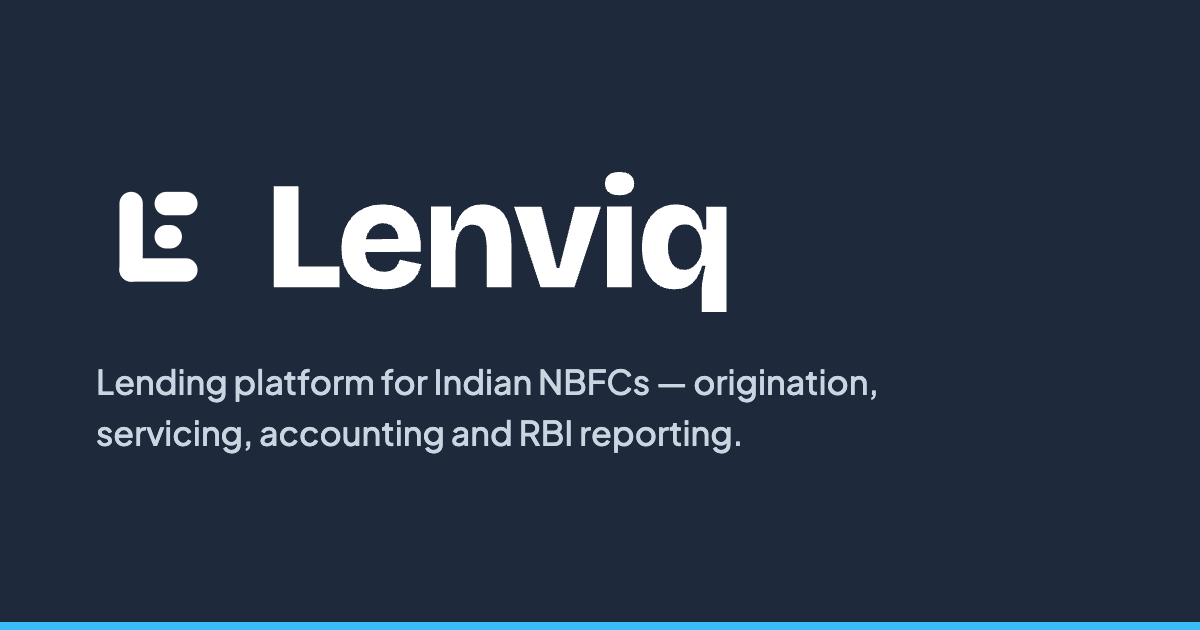
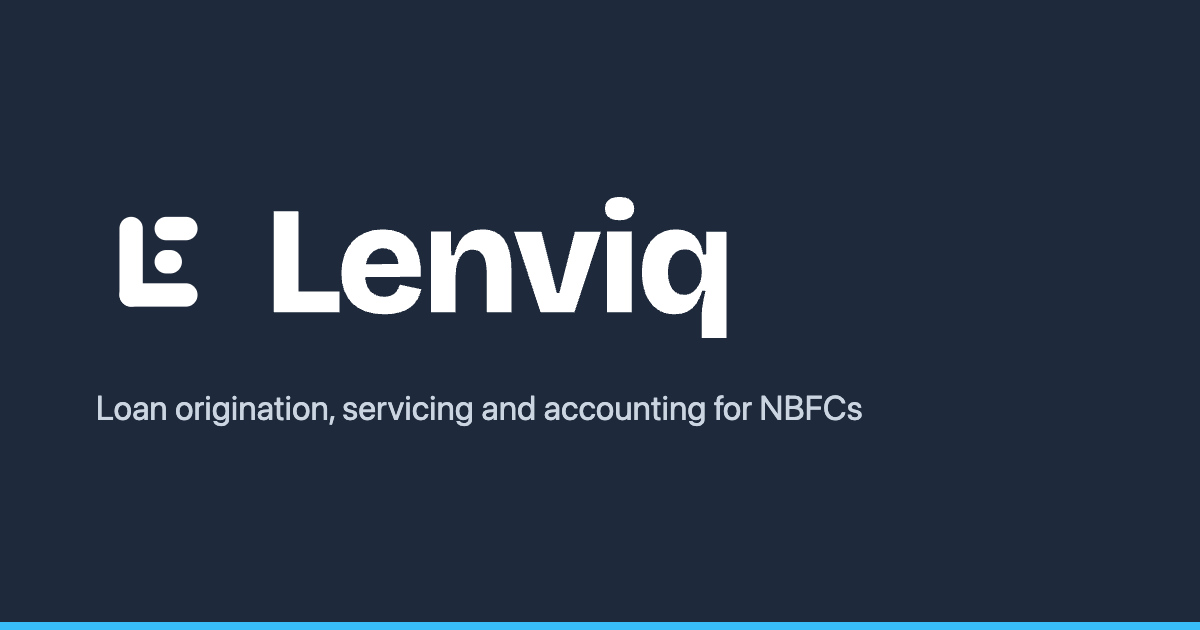
fix(site): one descriptor, shared with the product and generated from one string
EMAIL-1 §1.1. The product introduced itself three different ways: "Lending platform
for Indian lenders" in the transactional email, a longer sentence in this site's meta
description, and a third wording in the proposal PDF. The Open Graph card made a
fourth, hardcoded in the generator.

It is now one line — "Loan origination, servicing and accounting for NBFCs" — with a
short form for narrow layouts. The old one repeated itself (lending / lenders), leaned
on "platform", which is a category word that says nothing, and spent a word telling an
Indian NBFC it was Indian.

The OG card reads SITE.tagline rather than carrying its own copy, so the share image
and the meta description cannot disagree. The site and the product still hold one
string each — two repositories, and SITE-2 explains why — but both ends are now pinned
by a test that names the same words, so a change to either fails loudly.

Recorded as SITE-3: build-brand.mjs imports fontkit and puppeteer and neither is a
declared dependency, so it cannot run from a clean checkout. It does not break the
build (the assets are committed and prebuild only copies them), but regenerating them
is not repeatable by anyone else. The card was regenerated for this sprint through the
product repository's puppeteer.

diff --git a/tests/site.test.ts b/tests/site.test.ts
@@ -401,3 +401,39 @@ describe("a running site can say which version it is", () => {
     expect(ignore).toMatch(/build-info\.json/);
   });
 });
+
+/**
+ * The one-line descriptor, pinned at this end too.
+ *
+ * It lives in two repositories because the site is a standalone static export (SITE-2), so nothing
+ * can enforce that both copies agree — except a test at each end that names the same string. If
+ * somebody changes one, this fails and says which.
+ */
+describe("one descriptor, and the product uses the same words", () => {
+  const EXPECTED = "Loan origination, servicing and accounting for NBFCs";
+  // `SITE` in this file is the repository path, so the config is read the way everything else here
+  // reads source: as text.
+  const config = src("src/lib/site.ts");
+  const tagline = config.match(/\n\s*tagline:\s*"([^"]+)"/)?.[1] ?? "";
+
+  it("is the string the product's email shell also uses", () => {
+    expect(tagline).toBe(EXPECTED);
+  });
+
+  it("says nothing twice, and nothing the reader already knows", () => {
+    const t = tagline.toLowerCase();
+    // The old line was "Lending platform for Indian NBFCs — …": lending/lenders repeated,
+    // "platform" said nothing, and "Indian" told an Indian NBFC something it knew.
+    expect(t).not.toContain("platform");
+    expect(t).not.toContain("indian");
+    expect((t.match(/lend/g) ?? []).length).toBeLessThanOrEqual(1);
+  });
+
+  it("reaches the meta description and the share card from that one constant", () => {
+    expect(src("src/app/layout.tsx")).toContain("SITE.tagline");
+    // The OG card is generated from the same string, not typed again.
+    const brand = src("scripts/build-brand.mjs");
+    expect(brand).toContain("SITE.tagline from src/lib/site.ts");
+    expect(brand).not.toMatch(/Lending platform for Indian NBFCs\s*\n\s*<\/p>/);
+  });
+});

diff --git a/src/lib/site.ts b/src/lib/site.ts
@@ -15,8 +15,23 @@ export const SITE = {
   /** The product. Every login link points here; nothing else about it lives in this app. */
   appUrl: "https://app.lenviq.in",
   name: "Lenviq",
-  /** One line a lending head would recognise. Used as the default meta description. */
-  tagline: "Lending platform for Indian NBFCs — origination, servicing, accounting and RBI reporting.",
+  /**
+   * What the product is, in one line — the meta description, the Open Graph card, and anywhere
+   * else the site introduces itself in a sentence.
+   *
+   * **One string, and it is shared with the product.** It said three different things in three
+   * places: this, "Lending platform for Indian lenders" in the transactional email, and a third
+   * wording in the proposal PDF. The old line also repeated itself — *lending* and *lenders* —
+   * leaned on *platform*, which is a category word that says nothing, and spent a word on *Indian*
+   * telling an Indian NBFC something it knows.
+   *
+   * The product's copy lives in `src/lib/platform/email-layout.ts` as `PRODUCT_DESCRIPTOR`. Two
+   * repositories means two copies (see SITE-2); both are pinned by a test, so they cannot drift
+   * quietly.
+   */
+  tagline: "Loan origination, servicing and accounting for NBFCs",
+  /** For places too narrow for the full line. Says less, nothing wrong. */
+  taglineShort: "Lending software for NBFCs",
   locale: "en-IN",
 } as const;
 
